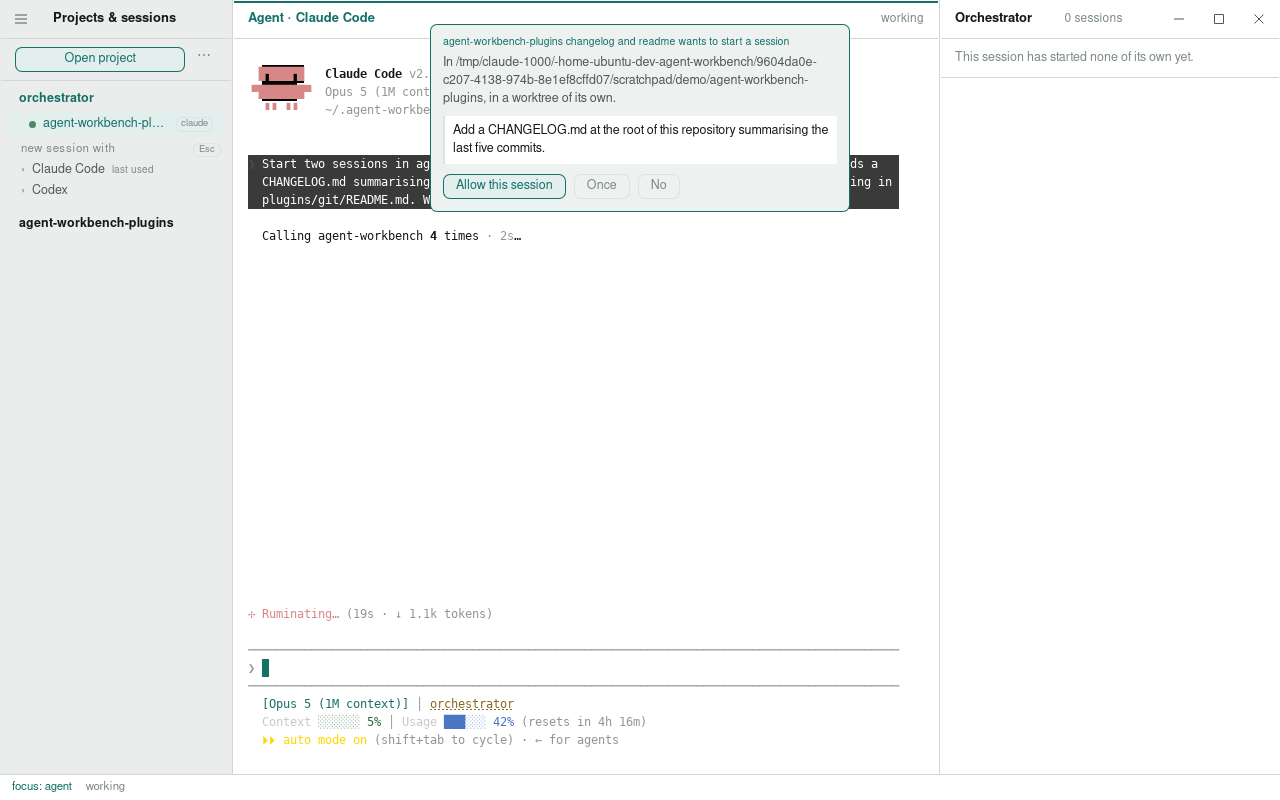
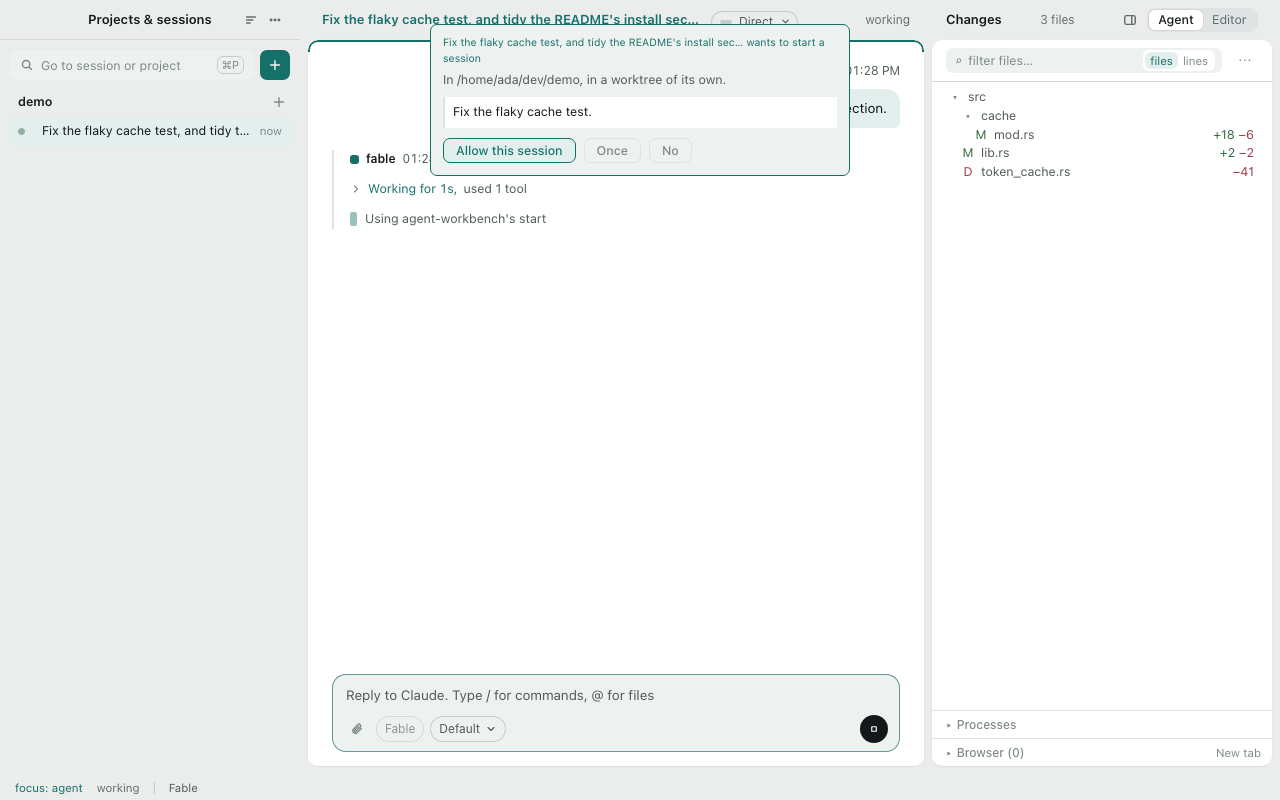
docs: describe directing work without the orchestrator project
Any session can start others; a workflow, Direct among the two a fresh install has, makes one direct rather than do. The orchestrator folder an earlier version kept is described as the sessions pane lists it, the board is the section at the tree's foot, and the two pictures are taken again.

diff --git a/docs/orchestrator.md b/docs/orchestrator.md
@@ -1,44 +1,56 @@
 # The orchestrator
 
 An orchestrator is a session that starts and steers other sessions. It is a
-session like any other, in a terminal or integrated, and you talk to it
-the way you talk to any agent. What it has that the others
-do not is a set of tools for the sessions around it: it can see the open
-projects, start a session in one of them with a prompt, send a running
-session a line, wait until one of them stops or asks for something, read
-what one has on screen, and stop them.
+session like any other, in a terminal or integrated, in any project, and
+you talk to it the way you talk to any agent. Every session has a set of
+tools for the sessions around it: it can see the open projects, start a
+session in one of them with a prompt, send a running session a line, wait
+until one of them stops or asks for something, read what one has on
+screen, and stop them. So any session becomes an orchestrator by being
+asked to start others.
 
-It runs in a project of its own, `orchestrator` under the workbench's home.
-The first one starts from New orchestrator session, in the menu on the
-sessions pane's title row; from then on the project sits above the ones
-you opened, with its sessions and the past ones to resume, and a session
-started there is an orchestrator. Its header's button starts another, and
-with more than one agent installed it opens the choice of agent, as any
-project's does. Nothing else about it differs,
-except what it is told: an orchestrator is told to direct work rather than
-do it, to start a session per piece in the project it belongs to, on a
-worktree of its own when pieces touch the same files, to wait on them rather
-than ask after them in a loop, to put the user's whole task in the prompt it
-starts a session with and none of its own housekeeping, and to leave a line
-on its own row when it stops, whether to relay a question or to report.
-A session that follows a workflow is an orchestrator as well, in whatever
-project it runs: it is told the same, and the workflow besides, as
-[following a workflow](#following-a-workflow) describes. Every other
-session has the same tools and none of the nudge. Every session, the
-orchestrator included, is told that once it has started sessions it keeps
-calling `wait` until all of them are done, and does not hand its turn back
-while any is running unless it needs the user, and that a message from the
-workbench, not the user, is what those sessions did while it was idle.
+To have a session direct the work rather than do it, start it under a
+workflow, from the workflow chip in a new conversation's composer, from
+the palette or from a project's new-session choice, as
+[following a workflow](#following-a-workflow) describes. The session that
+follows a workflow is its orchestrator, and is told to direct work rather
+than do it, to start a session per piece in the project it belongs to, on a
+worktree of its own when pieces touch the same files, to wait on them
+rather than ask after them in a loop, to put the user's whole task in the
+prompt it starts a session with and none of its own housekeeping, and to
+leave a line on its own row when it stops, whether to relay a question or
+to report, as well as the workflow's own steps. A fresh install has a
+workflow for exactly that, Direct: one step of work, on any model, with as
+many sessions at once as a session may run (see
+[settings](settings.md#workflows)). A session that follows no workflow is
+told none of this. Every session, an orchestrator included, is told that
+once it has started sessions it keeps calling `wait` until all of them are
+done, and does not hand its turn back while any is running unless it needs
+the user, and that a message from the workbench, not the user, is what
+those sessions did while it was idle.
+
+Earlier versions of the workbench ran such sessions in a project of their
+own, the folder `orchestrator` under the workbench's home. While
+that folder holds past sessions the sessions pane lists it as a project,
+under its name, so they can be read and resumed. A session resumed there is
+a session like any other: it is told nothing of directing, has the tools
+and hooks any project has under the [hooks](hooks.md) setting, and keeps
+its token and what it started, as [what is
+remembered](#what-is-remembered) describes. Nothing new starts in the
+folder: it has no new-session button, its menu holds only Close project,
+and neither the agent pane nor the palette offers a new session there.
+Closing it closes its sessions and takes it out of the pane for good; it
+comes back only when a session of it returns from the last quit. Nothing
+in the folder is moved or deleted.
 
 ## The tools
 
 The seven tools reach the workbench through the same tool server the app's
-own tools use. The orchestrator's own directory carries them whatever the
-projects were told about live updates, and so does a session that follows a
-workflow, which is pointed at the server when it starts where its
-project's configuration does not point at it already; any other session has
-them where its project's hooks are on. See [hooks](hooks.md) and
-[agents](adapters.md#under-a-workflow).
+own tools use. A session that follows a workflow has them whatever the
+projects were told about live updates: it is pointed at the server when it
+starts where its project's configuration does not point at it already. Any
+other session has them where its project's hooks are on. See
+[hooks](hooks.md) and [agents](adapters.md#under-a-workflow).
 
 `projects` lists the open projects, the caller's own marked, so a session
 names a project the app actually has. `sessions` lists the sessions the
@@ -268,8 +280,8 @@ the starter is idle, the workbench wakes it: it sends the starter what a
 wait would have answered, a line for each session in the same words, then
 the ones still at work by their ids, and the starter goes on as it would
 after a wait. Sessions that come to rest within three seconds of the first
-go in the same message. The orchestrator and a plain session that started
-others are woken alike, and there is no setting for it.
+go in the same message. A starter under a workflow and one under none are
+woken alike, and there is no setting for it.
 
 Idle means all of these at once. The starter is running, and its agent
 ended its last turn itself, as its hooks say for a session in a terminal
@@ -674,22 +686,12 @@ line says what they are doing whatever the agent left, with a small dot for
 each where the model stands otherwise. Left on a started session moves the
 cursor up to its starter. Nothing about the fold is remembered.
 
-The orchestrator's changes pane, headed Orchestrator, shows the sessions it
-started instead
-of a file tree: each with its project, its worktree, what it is doing, how
-long it has been at it and the line it left, with Stop all on the section's
-header. Each row can be stopped on its own, or sent a line without leaving the
-orchestrator. Under the list, the projects the orchestrator has been allowed
-to start sessions in, each with a way to take that back, and the worktrees its
-starts have left behind, with Clean up for the ones whose work is merged and
-whose trees are clean; the rest say why they stay.
-
-![An orchestrator on screen with the sessions it started, and the board in the changes pane with a row for each, what it is doing, and the project it may start in.](orchestrator-board.png)
-
-Any other session that started sessions has the same controls in a
-section at the foot of its changes pane, under the tree and beside
-Processes and Browser, headed Sessions it started with how many (see
-[layout](layout.md#under-the-tree)). It is there while the session on
+A session that started sessions has the board for them in a section at
+the foot of its changes pane, under the tree and beside Processes and
+Browser, headed Sessions it started with how many (see
+[layout](layout.md#under-the-tree)): stop one or all, send one a line, take
+back a project it may start in without asking, and clean up the worktrees
+its starts left behind. It is there while the session on
 screen has sessions it started, may start more in a project without being
 asked, or has worktrees its starts left behind, so that can still be taken
 back and those cleaned up once they are gone. Each row
@@ -707,6 +709,8 @@ and Clean up ask first, the one saying how many of them still run and how
 many of those wait on you or are at work, the other naming each worktree
 that goes with its branch. The section is open until you fold it, the fold is
 remembered, and it opens by itself when one of them asks for a permission.
+
+![A session on screen with the sessions it started on the rail under it, and the board at the foot of the changes pane with a row for each, its step, what it is doing, and the project it may start in.](orchestrator-board.png)
 
 The sessions it started keep out of the keyboard's way too: Delete on one
 of them in the sessions pane does nothing. Its own × stops it, Delete on its

diff --git a/docs/sessions.md b/docs/sessions.md
@@ -30,8 +30,8 @@ terminal wakes it; it is read again as it leaves Inactive.
 
 The pane's title row carries two small buttons at its end: the order the
 projects are listed in, and a menu with Open project, Open remote project,
-for a folder on another machine, New orchestrator session and Settings; see
-[remote](remote.md) and [orchestrator](orchestrator.md). Under it sits a
+for a folder on another machine, and Settings; see [remote](remote.md).
+Under it sits a
 field, `Go to session or project` with the chord of go to, which opens
 [go to](focus-model.md#the-palettes), and beside it a button in the accent
 that asks for a new session in the palette, which project first when more
@@ -48,7 +48,11 @@ running in it. The header stays in view while the project's rows
 scroll under it, until the next project's pushes it out, and a hairline
 separates one project from the next. With more than one agent installed, a
 new session from a project's own button or menu opens the choice in place
-under the project's name, a row per agent; see [agents](adapters.md).
+under the project's name, a row per agent; see [agents](adapters.md). The
+`orchestrator` folder an earlier version kept sessions in is listed among
+the projects while it holds past sessions, with no button for a new
+session and Close project alone in its menu; see
+[orchestrator](orchestrator.md).
 
 Once there are accounts to tell apart, the foot of the pane names the one
 the session on screen runs under, with a button that opens the settings
@@ -177,8 +181,10 @@ starts at once, through the agent's resume command, and each of the others
 starts when it is selected. Bringing a project forward selects its most
 recent session, so that one starts too. A session closed by hand before the
 quit stays closed, a session whose project did not open again is left out,
-and a session an orchestrator started stays with the orchestrator; see
-[orchestrator](orchestrator.md).
+and a session another session started stays with its starter; see
+[orchestrator](orchestrator.md). A session left open in the `orchestrator`
+folder of an earlier version comes back too, and lists that folder again;
+see [orchestrator](orchestrator.md).
 
 The yellow is the terminal's, so a theme that sets its yellow sets this dot
 too. In the amber palette, whose accent is a yellow, it is a lemon instead,

diff --git a/docs/settings.md b/docs/settings.md
@@ -276,13 +276,18 @@ one word of forty characters at most, and a step lists a model once and
 sixteen at most. The window holds a change to the same rules the settings
 file is kept by, so a change it shows is one that is kept.
 
-A fresh install has one workflow, Build and review. Its orchestrator is on
-Claude's most capable model alias, its Work step is on Sonnet, and its
+A fresh install has two workflows. In Build and review the orchestrator is
+on Claude's most capable model alias, the Work step is on Sonnet, and the
 Review step is on Opus, passes when the reviewer approves and the
 orchestrator agrees, and goes back to Work up to three times before it asks.
-A settings file from before workflows existed gets the same one. New
-sessions follow none until the user turns a workflow on, in this tab or by
-picking one when starting a session.
+Direct is for directing work with no review: its orchestrator is on the
+same model, and its one step, Work, runs on any model, eight sessions at
+once at most, which is as many as a session may run. Its orchestrator hands
+each piece to a session of its own and does none itself, as
+[orchestrator](orchestrator.md) describes. A settings file from before
+workflows existed gets the same two. They are ordinary workflows, changed,
+renamed or deleted like any other. New sessions follow none until the user
+turns a workflow on, in this tab or by picking one when starting a session.
 
 A workflow in the file that does not read or keep the rules is not used, and
 neither is a default or a project choice that names it. It is not dropped:

diff --git a/README.md b/README.md
@@ -34,13 +34,15 @@ state at a glance, and projects on other machines over ssh.
   diagrams in front of you, ask what you are looking at, type a command
   into a terminal for you to run, and leave a line on its session's row.
   See [hooks](docs/hooks.md).
-- **Orchestrator.** A session that starts and steers other sessions: it
+- **Orchestrator.** Any session can start and steer other sessions: it
   opens one per piece of work, in any open project and on a worktree of its
   own, waits on them and answers for them, and is woken when one of them
   stops while it is idle. The sessions it starts fold away
   under their projects until one needs you. A workflow, turned on in the
-  settings or picked when starting, holds it to steps, models and rounds of
-  review. See [orchestrator](docs/orchestrator.md).
+  settings or picked when starting, makes it direct the work rather than do
+  it and holds it to steps, models and rounds of review; Direct, one of the
+  two a fresh install has, has one step and no review. See
+  [orchestrator](docs/orchestrator.md).
 - **Plugins.** A plugin adds to the workbench from outside it: tools for the
   agent, a section under the file tree with rows and actions, and a page of
   its own in the changes pane. The settings offer the sources the workbench

diff --git a/docs/layout.md b/docs/layout.md
@@ -491,8 +491,8 @@ remembered, and the open ones share the height.
 row per set of files under its caption, opening in the viewer. **Sessions
 it started** follows it while the session on screen has started sessions
 of its own, may start more without being asked, or has worktrees its
-starts left behind: a row for each session, with
-what the orchestrator's board offers; the
+starts left behind: a row for each session, with the controls to stop
+them, send them a line and clean up after them; the
 [orchestrator](orchestrator.md#in-the-panes) says what they are. It stands
 open until folded, and opens by itself when one of them asks for a
 permission. **Processes** is

diff --git a/docs/adapters.md b/docs/adapters.md
@@ -37,7 +37,7 @@ session on a remote machine runs under directories on that machine.
 
 Every session is given a token the workbench chose, in its environment as
 `WORKBENCH_SESSION`, with `WORKBENCH_ROLE` beside it for a session that
-directs the others. The tool server and the hooks read both, and every call
+follows a workflow, which directs the others. The tool server and the hooks read both, and every call
 they make names the session by its token; see [who is
 calling](orchestrator.md#who-is-calling). Claude Code passes its whole
 environment to the servers it starts. Codex passes a server only the
